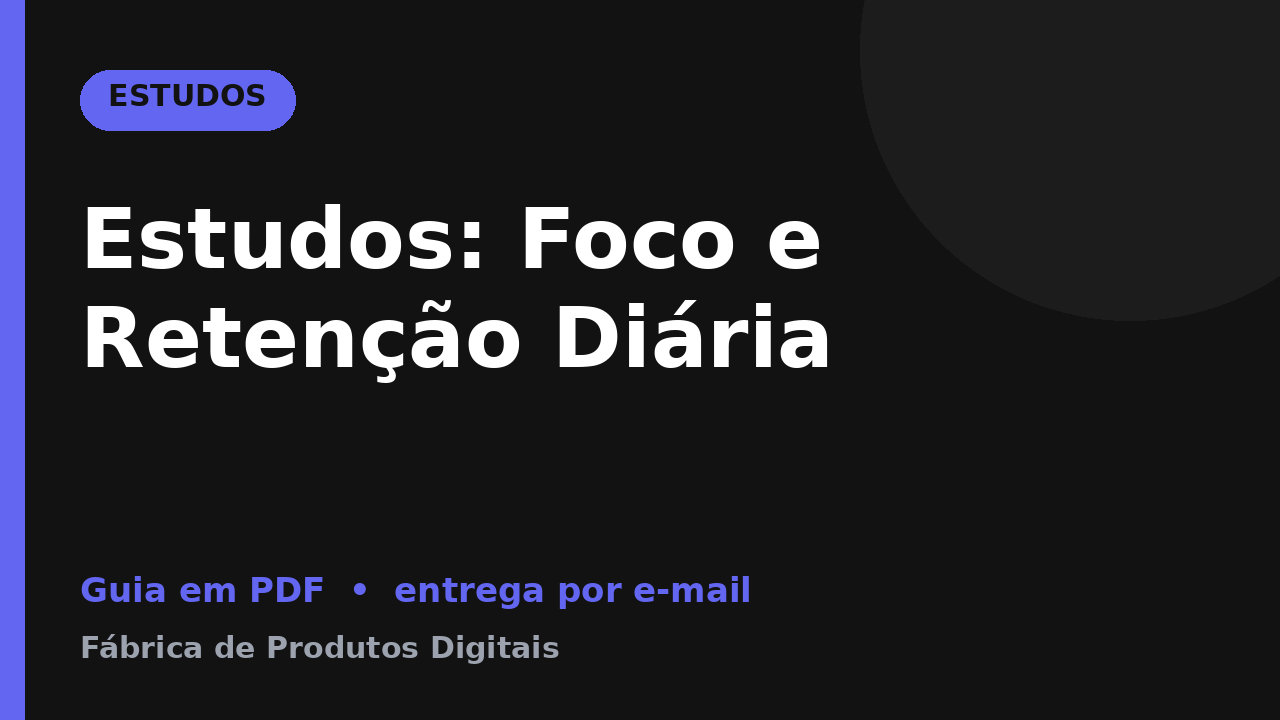
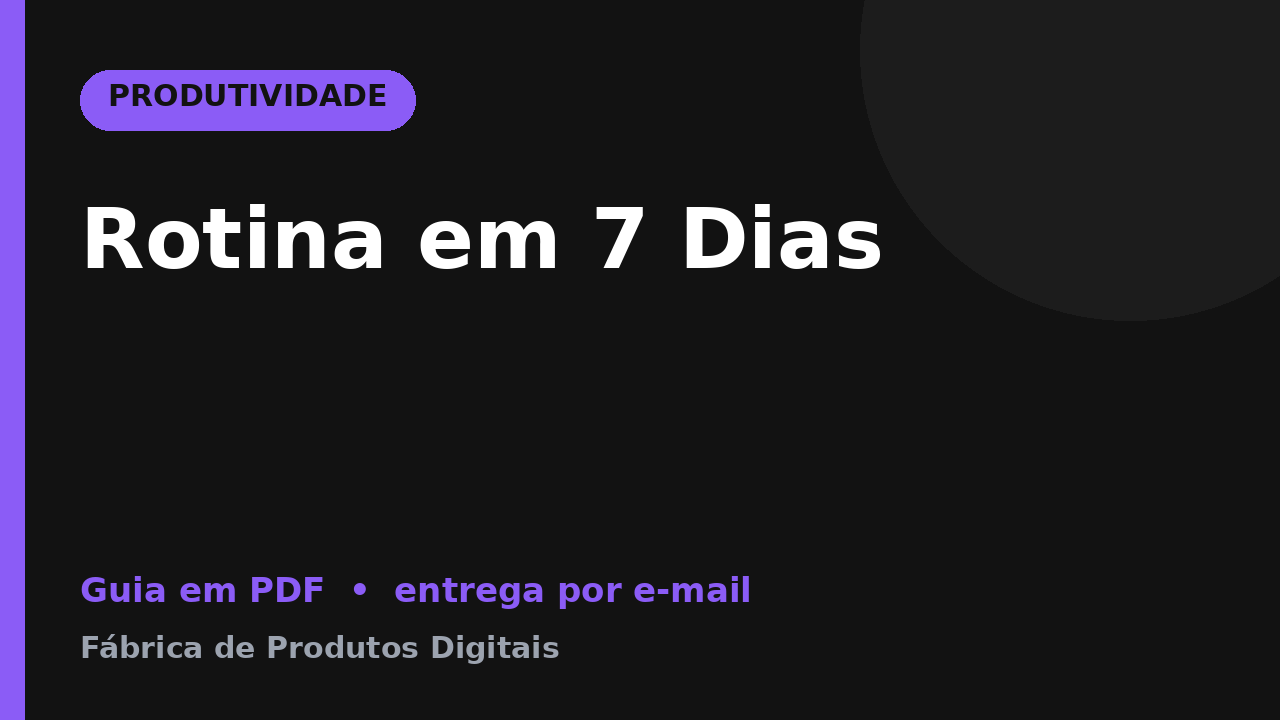
Capa na Cakto: PUT com name/description/price + image, URL do GitHub raw (sem Drive), CAKTO_EXIGE_IMAGEM=false por padrão
Claude-Session: https://claude.ai/code/session_0141AJsg8Zz1Ug3sUdkmEUgF

diff --git a/fabrica_produtos/plataformas.py b/fabrica_produtos/plataformas.py
@@ -48,6 +48,15 @@ def _espera(resposta) -> float:
         return 5.0
 
 
+def dados_obrigatorios(produto: dict) -> dict:
+    """name/description/price que a Cakto exige em todo PUT (um PUT só com `image` volta 400 'obrigatório')."""
+    preco = parse_preco(produto.get("preco"))
+    d = {"name": produto["nome"], "description": produto.get("descricao_oferta") or produto.get("promessa") or produto["nome"]}
+    if preco is not None:
+        d["price"] = f"{preco:.2f}"
+    return d
+
+
 class Cakto:
     nome = "cakto"
     variaveis = ("CAKTO_CLIENT_ID", "CAKTO_CLIENT_SECRET")  # só os NOMES aparecem em relatórios
@@ -142,17 +151,17 @@ class Cakto:
         reaproveita: assim uma nova tentativa depois de um erro de rede nunca duplica o produto.
 
         Com `url_entrega` o produto recebe a entrega por e-mail (emailAccess) apontando para o PDF. Ele só vira 'active'
-        DEPOIS que a capa subir (CAKTO_EXIGE_IMAGEM=true, o padrão): nasce em 'waiting_config', recebe a imagem e então
-        é ativado. Se a imagem falhar, fica em 'waiting_config' e o erro CAKTO_IMAGEM_ERROR aparece no log; o comando
+        depois de tentar a capa. Com CAKTO_EXIGE_IMAGEM=true (padrão: false até a imagem ser confirmada na Cakto) ele só
+        é ativado se a capa subir; senão fica em 'waiting_config'. O erro CAKTO_IMAGEM_ERROR aparece no log e o comando
         `capas` tenta de novo depois. Sem `url_entrega` o produto fica em 'waiting_config' (não pode ser vendido vazio)."""
         existente = self.buscar_por_nome(produto["nome"])
         if existente:
             existente["existente"] = True
             if url_entrega and existente.get("status") == "waiting_config":
                 self._entrega(existente["id"], url_entrega)
-                existente = self.finalizar(existente["id"], urls_imagem, capa_path) | {"existente": True}
+                existente = self.finalizar(existente["id"], urls_imagem, capa_path, produto) | {"existente": True}
             elif not existente.get("imagem") and (urls_imagem or capa_path):
-                existente = self.finalizar(existente["id"], urls_imagem, capa_path) | {"existente": True}
+                existente = self.finalizar(existente["id"], urls_imagem, capa_path, produto) | {"existente": True}
             return existente
         preco = parse_preco(produto.get("preco"))
         if preco is None:
@@ -166,17 +175,20 @@ class Cakto:
         r = self._resumo(self._req("POST", "/public_api/products/", json=corpo))
         r["existente"] = False
         if url_entrega and r["id"]:
-            r = self.finalizar(r["id"], urls_imagem, capa_path) | {"existente": False}
+            r = self.finalizar(r["id"], urls_imagem, capa_path, produto) | {"existente": False}
         return r
 
-    def enviar_imagem(self, produto_id: str, urls: list[str] | None = None, capa_path: str | None = None) -> str:
-        """Põe a capa no produto. A documentação da Cakto define `image` como URL pública (PUT /products/{id}/): tenta
-        cada URL; se todas forem recusadas e houver o arquivo, tenta enviar o PNG em multipart no mesmo campo.
+    def enviar_imagem(self, produto_id: str, urls: list[str] | None = None, capa_path: str | None = None,
+                      produto: dict | None = None) -> str:
+        """Põe a capa no produto. `image` é URL pública (PUT /products/{id}/). O PUT exige name, description e price
+        (a execução real devolveu 400 'obrigatório' só com `image`): `produto` (catálogo) fornece esses dados e eles vão
+        junto em cada tentativa. Tenta cada URL; se todas forem recusadas e houver o arquivo, tenta o PNG em multipart.
         Só devolve se o produto realmente passou a ter `image`. Falha = ErroPlataforma com o código HTTP."""
         erros = []
+        base = dados_obrigatorios(produto) if produto else {}
         for url in urls or []:
             try:
-                self._req("PUT", f"/public_api/products/{produto_id}/", json={"image": url})
+                self._req("PUT", f"/public_api/products/{produto_id}/", json={**base, "image": url})
                 if self._resumo(self._req("GET", f"/public_api/products/{produto_id}/"))["imagem"]:
                     return url
                 erros.append(ErroPlataforma(f"cakto: PUT aceito mas o produto continua sem imagem ({url[:60]})", 200))
@@ -185,7 +197,7 @@ class Cakto:
         if capa_path and os.path.isfile(capa_path):
             try:
                 with open(capa_path, "rb") as f:
-                    self._req("PUT", f"/public_api/products/{produto_id}/",
+                    self._req("PUT", f"/public_api/products/{produto_id}/", data=base,
                               files={"image": (os.path.basename(capa_path), f.read(), "image/png")})
                 if self._resumo(self._req("GET", f"/public_api/products/{produto_id}/"))["imagem"]:
                     return "multipart"
@@ -203,17 +215,17 @@ class Cakto:
         self._req("PUT", f"/public_api/products/{produto_id}/", json={"status": "active"})
         return self._resumo(self._req("GET", f"/public_api/products/{produto_id}/"))
 
-    def finalizar(self, produto_id: str, urls_imagem=None, capa_path=None) -> dict:
+    def finalizar(self, produto_id: str, urls_imagem=None, capa_path=None, produto: dict | None = None) -> dict:
         """Capa primeiro, ativação depois. Falha na capa: log CAKTO_IMAGEM_ERROR e o produto fica em 'waiting_config'
-        (a menos que CAKTO_EXIGE_IMAGEM=false). Nunca levanta por causa da imagem."""
+        (só se CAKTO_EXIGE_IMAGEM=true; o padrão ativa mesmo assim). Nunca levanta por causa da imagem."""
         imagem_erro = ""
         try:
-            self.enviar_imagem(produto_id, urls_imagem, capa_path)
+            self.enviar_imagem(produto_id, urls_imagem, capa_path, produto)
         except ErroPlataforma as e:
             imagem_erro = str(e)
             logger.error("CAKTO_IMAGEM_ERROR produto=%s http=%s detalhe=%s", produto_id, e.codigo or "-", e)
             print(f"CAKTO_IMAGEM_ERROR produto={produto_id} http={e.codigo or '-'} {e}", flush=True)
-        if imagem_erro and _env("CAKTO_EXIGE_IMAGEM").lower() != "false":
+        if imagem_erro and _env("CAKTO_EXIGE_IMAGEM").lower() == "true":
             r = self._resumo(self._req("GET", f"/public_api/products/{produto_id}/"))
         else:
             r = self.ativar(produto_id)

diff --git a/tests/test_cakto_capa.py b/tests/test_cakto_capa.py
@@ -60,9 +60,10 @@ class EnvioDaImagem(Base):
         com = {**produto_api(NOME, pid="u1"), "image": "https://c/capa.png"}
         c, srv = cliente(self.rotas(Resp(200, {}), [Resp(200, com), Resp(200, com)]))
         self.usar(srv)
-        r = c.finalizar("u1", ["https://c/capa.png"], None)
+        r = c.finalizar("u1", ["https://c/capa.png"], None, {**produto_bom(), "preco": 8.9})
         puts = [kw["json"] for m, u, kw in srv.chamadas if m == "PUT"]
-        self.assertEqual(puts, [{"image": "https://c/capa.png"}, {"status": "active"}])
+        self.assertEqual(puts, [{"name": NOME, "description": produto_bom()["descricao_oferta"], "price": "8.90",
+                                 "image": "https://c/capa.png"}, {"status": "active"}])   # PUT com os dados obrigatórios
         self.assertEqual(r["imagem_erro"], "")
         self.assertTrue(r["ativo"])
 
@@ -87,7 +88,8 @@ class EnvioDaImagem(Base):
         self.assertIn("image", vistos[-1]["files"])
         self.assertEqual(vistos[-1]["files"]["image"][2], "image/png")
 
-    def test_falha_loga_CAKTO_IMAGEM_ERROR_com_codigo_e_nao_ativa(self):
+    def test_falha_loga_CAKTO_IMAGEM_ERROR_com_codigo_e_nao_ativa_quando_exige(self):
+        os.environ["CAKTO_EXIGE_IMAGEM"] = "true"
         sem = produto_api(NOME, status="waiting_config", pid="u1")
         c, srv = cliente(self.rotas(Resp(403, {}, "forbidden"), [Resp(200, sem)]))
         self.usar(srv)
@@ -106,8 +108,8 @@ class EnvioDaImagem(Base):
         with self.assertRaises(plataformas.ErroPlataforma):
             c.enviar_imagem("u1", ["https://a/x.png"])
 
-    def test_exige_imagem_false_ativa_mesmo_sem_capa(self):
-        os.environ["CAKTO_EXIGE_IMAGEM"] = "false"
+    def test_padrao_nao_exige_imagem_e_ativa_mesmo_sem_capa(self):
+        os.environ.pop("CAKTO_EXIGE_IMAGEM", None)
         ativo = produto_api(NOME, status="active", pid="u1")
         c, srv = cliente(self.rotas(lambda kw: Resp(403, {}, "x") if "image" in kw["json"] else Resp(200, {}),
                                     [Resp(200, ativo)]))
@@ -137,9 +139,6 @@ class Reparo(Base):
         p = mock.patch.object(capa, "PASTA_PADRAO", self.tmp.name)
         p.start()
         self.addCleanup(p.stop)
-        p = mock.patch.object(registrador, "Drive", lambda: mock.Mock(configurada=lambda: False))
-        p.start()
-        self.addCleanup(p.stop)
         p = mock.patch.object(registrador, "_acessivel", lambda u: True)
         p.start()
         self.addCleanup(p.stop)
@@ -156,7 +155,8 @@ class Reparo(Base):
         with mock.patch.object(plataformas, "instanciar", return_value=[c]):
             linhas = registrador.enviar_capas()
         put = next(kw["json"] for m, u, kw in srv.chamadas if m == "PUT")
-        self.assertEqual(put, {"image": f"https://raw.githubusercontent.com/o/r/main/docs/capas/{self.id}.png"})
+        self.assertEqual(put, {"name": NOME, "description": produto_bom()["descricao_oferta"], "price": "7.00",
+                               "image": f"https://raw.githubusercontent.com/o/r/main/docs/capas/{self.id}.png"})
         self.assertTrue(any("capa enviada" in l for l in linhas))
         self.assertTrue(os.path.exists(os.path.join(self.tmp.name, f"{self.id}.png")))
 
@@ -207,23 +207,19 @@ class UrlAcessivel(unittest.TestCase):
             self.assertFalse(registrador._acessivel("https://x/a.png"))
 
     def test_url_do_github_fora_do_ar_nao_vira_candidata(self):
-        with mock.patch.object(registrador, "_acessivel", lambda u: False), \
-                mock.patch.dict(os.environ, {"GITHUB_REPOSITORY": "o/r"}), \
-                mock.patch.object(registrador, "Drive", lambda: mock.Mock(configurada=lambda: False)):
-            self.assertEqual(registrador.urls_da_capa({"id": "p1"}, "/tmp/x.png", []), [])
+        linhas = []
+        with mock.patch.object(registrador, "_acessivel", lambda u: False), mock.patch.dict(os.environ, {"GITHUB_REPOSITORY": "o/r"}):
+            self.assertEqual(registrador.urls_da_capa({"id": "p1"}, "/tmp/x.png", linhas), [])
+        self.assertTrue(linhas)
 
-
-class DriveImagem(unittest.TestCase):
-    def test_publicar_imagem_envia_png_libera_e_devolve_url_direta(self):
-        from fabrica_produtos.drive import Drive
-        d = Drive.__new__(Drive)
-        d._achar = lambda nome: ""
-        d._enviar = mock.Mock(return_value="FILE1")
-        d._liberar_link = mock.Mock()
-        url = d.publicar_imagem("/tmp/x.png", "p1-capa.png")
-        d._enviar.assert_called_once_with("/tmp/x.png", "p1-capa.png", "image/png")
-        d._liberar_link.assert_called_once_with("FILE1")
-        self.assertIn("id=FILE1", url)
+    def test_nunca_usa_o_drive_para_imagem_e_o_repo_padrao_e_o_do_projeto(self):
+        with mock.patch.object(registrador, "_acessivel", lambda u: True), mock.patch.dict(os.environ, {}, clear=False):
+            os.environ.pop("GITHUB_REPOSITORY", None)
+            os.environ.pop("GITHUB_REF_NAME", None)
+            urls = registrador.urls_da_capa({"id": "p20261005-1"}, None, [])
+        self.assertEqual(urls, ["https://raw.githubusercontent.com/fabricadeprodutosdigitais/fabrica-de-produtos-digitais/"
+                                "main/docs/capas/p20261005-1.png"])
+        self.assertFalse(hasattr(__import__("fabrica_produtos.drive", fromlist=["Drive"]).Drive, "publicar_imagem"))
 
 
 class Workflow(unittest.TestCase):

diff --git a/fabrica_produtos/registrador.py b/fabrica_produtos/registrador.py
@@ -90,27 +90,20 @@ def _acessivel(url: str) -> bool:
         return False
 
 
+REPO_PADRAO = "fabricadeprodutosdigitais/fabrica-de-produtos-digitais"
+
+
 def urls_da_capa(produto: dict, capa_path: str | None, linhas: list[str]) -> list[str]:
-    """URLs públicas candidatas da capa: Drive (imediata) e GitHub raw (vale depois do commit do workflow)."""
-    urls = []
-    if capa_path:
-        drive = Drive()
-        if drive.configurada():
-            try:
-                url = drive.publicar_imagem(capa_path, f"{produto['id']}-capa.png")
-                if _acessivel(url):
-                    urls.append(url)
-                else:
-                    linhas.append("drive: a capa foi enviada mas a URL pública ainda não responde como imagem")
-            except ErroDrive as e:
-                linhas.append(f"drive: não consegui hospedar a capa ({e})")
-        repo = os.getenv("GITHUB_REPOSITORY", "").strip()
-        if repo:
-            raw = (f"https://raw.githubusercontent.com/{repo}/{os.getenv('GITHUB_REF_NAME') or 'main'}/"
-                   f"docs/capas/{produto['id']}.png")
-            if _acessivel(raw):  # só existe depois do commit do workflow
-                urls.append(raw)
-    return urls
+    """URL pública da capa: GitHub raw (repositório público). O Drive NÃO é usado para imagem: a conta de serviço não
+    tem cota no Meu Drive. A URL só entra se já responder como imagem, ou seja, depois do commit do workflow."""
+    repo = os.getenv("GITHUB_REPOSITORY", "").strip() or REPO_PADRAO
+    ref = os.getenv("GITHUB_REF_NAME", "").strip() or "main"
+    raw = f"https://raw.githubusercontent.com/{repo}/{ref}/docs/capas/{produto['id']}.png"
+    if _acessivel(raw):
+        return [raw]
+    linhas.append(f"{produto['id']}: a capa ainda não está em {ref} (raw responde sem imagem); "
+                  "segue com o envio do arquivo e a próxima execução usa a URL")
+    return []
 
 
 def enviar_capas(nomes: list[str] | None = None) -> list[str]:
@@ -135,7 +128,7 @@ def enviar_capas(nomes: list[str] | None = None) -> list[str]:
                     continue
                 capa_path = gerar_capa_produto(p, linhas)
                 try:
-                    plat.enviar_imagem(achado["id"], urls_da_capa(p, capa_path, linhas), capa_path)
+                    plat.enviar_imagem(achado["id"], urls_da_capa(p, capa_path, linhas), capa_path, p)
                 except plataformas.ErroPlataforma as e:
                     linhas.append(f"CAKTO_IMAGEM_ERROR: {p['id']} http={e.codigo or '-'} {e}")
                     print(f"CAKTO_IMAGEM_ERROR produto={p['id']} http={e.codigo or '-'} {e}", flush=True)

diff --git a/tests/test_cakto.py b/tests/test_cakto.py
@@ -46,6 +46,9 @@ def cliente(rotas):
     return plataformas.Cakto(), srv
 
 
+NOME_PADRAO = produto_bom()["nome"]
+
+
 class ClienteCakto(unittest.TestCase):
     def setUp(self):
         for k in ("CAKTO_CLIENT_ID", "CAKTO_CLIENT_SECRET", "CAKTO_SALES_PAGE"):
@@ -120,7 +123,10 @@ class ClienteCakto(unittest.TestCase):
         self.assertEqual(corpos[0]["emailAccessLink"], "https://drive.exemplo/pdf")
         self.assertEqual(corpos[0]["salesPage"], "https://loja.exemplo.com.br/p")
         puts = [kw["json"] for m, u, kw in srv.chamadas if m == "PUT"]
-        self.assertEqual(puts, [{"image": "https://x/capa.png"}, {"status": "active"}])
+        self.assertEqual(puts[0]["image"], "https://x/capa.png")
+        self.assertEqual({k: puts[0][k] for k in ("name", "price")}, {"name": NOME_PADRAO, "price": "7.00"})
+        self.assertIn("description", puts[0])
+        self.assertEqual(puts[1], {"status": "active"})
         self.assertTrue(r["ativo"])
 
     def test_criar_nao_duplica_quando_ja_existe(self):

diff --git a/tests/test_drive.py b/tests/test_drive.py
@@ -246,7 +246,8 @@ class CaktoEntrega(unittest.TestCase):
         puts = [ch[2]["json"] for ch in srv.chamadas if ch[0] == "PUT"]
         self.assertEqual(puts, [{"contentDeliveries": ["emailAccess"],
                                  "emailAccessLink": "https://drive.google.com/file/d/A/view"},
-                                {"image": "https://c/1.png"}, {"status": "active"}])
+                                {"name": nome, "description": produto_bom()["descricao_oferta"],
+                                 "price": "7.00", "image": "https://c/1.png"}, {"status": "active"}])
         self.assertTrue(r["ativo"] and r["existente"])
         self.assertEqual(r["link"], "https://pay.cakto.com.br/77BcHrY")
 

diff --git a/fabrica_produtos/drive.py b/fabrica_produtos/drive.py
@@ -174,12 +174,6 @@ class Drive:
         self._liberar_link(arquivo_id)
         return f"https://drive.google.com/file/d/{arquivo_id}/view"
 
-    def publicar_imagem(self, caminho: str, nome: str) -> str:
-        """Envia a capa (PNG), libera leitura por link e devolve uma URL que serve a imagem direto (para <img>/Cakto)."""
-        arquivo_id = self._achar(nome) or self._enviar(caminho, nome, "image/png")
-        self._liberar_link(arquivo_id)
-        return f"https://drive.google.com/thumbnail?id={arquivo_id}&sz=w1280"
-
     # -- sondagem (somente leitura) --
     def sondar(self) -> list[str]:
         linhas = [f"## {self.nome}"]

diff --git a/fabrica_produtos/README.md b/fabrica_produtos/README.md
@@ -263,3 +263,13 @@ Os produtos apareciam "Sem imagem" porque o robô nunca enviava capa (e nem gera
   produtos do catálogo na Cakto, envia a capa dos que estão sem imagem e ativa os que só esperavam por ela. É o que
   corrige os 5 produtos atuais.
 - Nada disso foi testado contra a Cakto real; o resultado aparece no resumo da primeira execução.
+
+### Correção após a 1ª execução real (PR #21)
+- A Cakto devolveu 400 "obrigatório" para um `PUT` só com `image`: agora todo `PUT` de capa leva `name`, `description` e
+  `price` do catálogo junto com `image` (e o multipart também).
+- A capa NÃO usa mais o Drive (a conta de serviço não tem cota no Meu Drive): a URL é a do GitHub raw
+  `https://raw.githubusercontent.com/<repo>/main/docs/capas/{id}.png`, só enviada se já responder como imagem.
+  O PDF de entrega continua dependendo do Drive.
+- `CAKTO_EXIGE_IMAGEM` agora vale `false` por padrão (produto é ativado mesmo sem capa) até a imagem ser confirmada na
+  Cakto; `true` volta a exigir a capa antes de ativar.
+- A ação `capas` varre a Cakto, acha produtos sem `image` e reenvia com o payload completo (idempotente).
